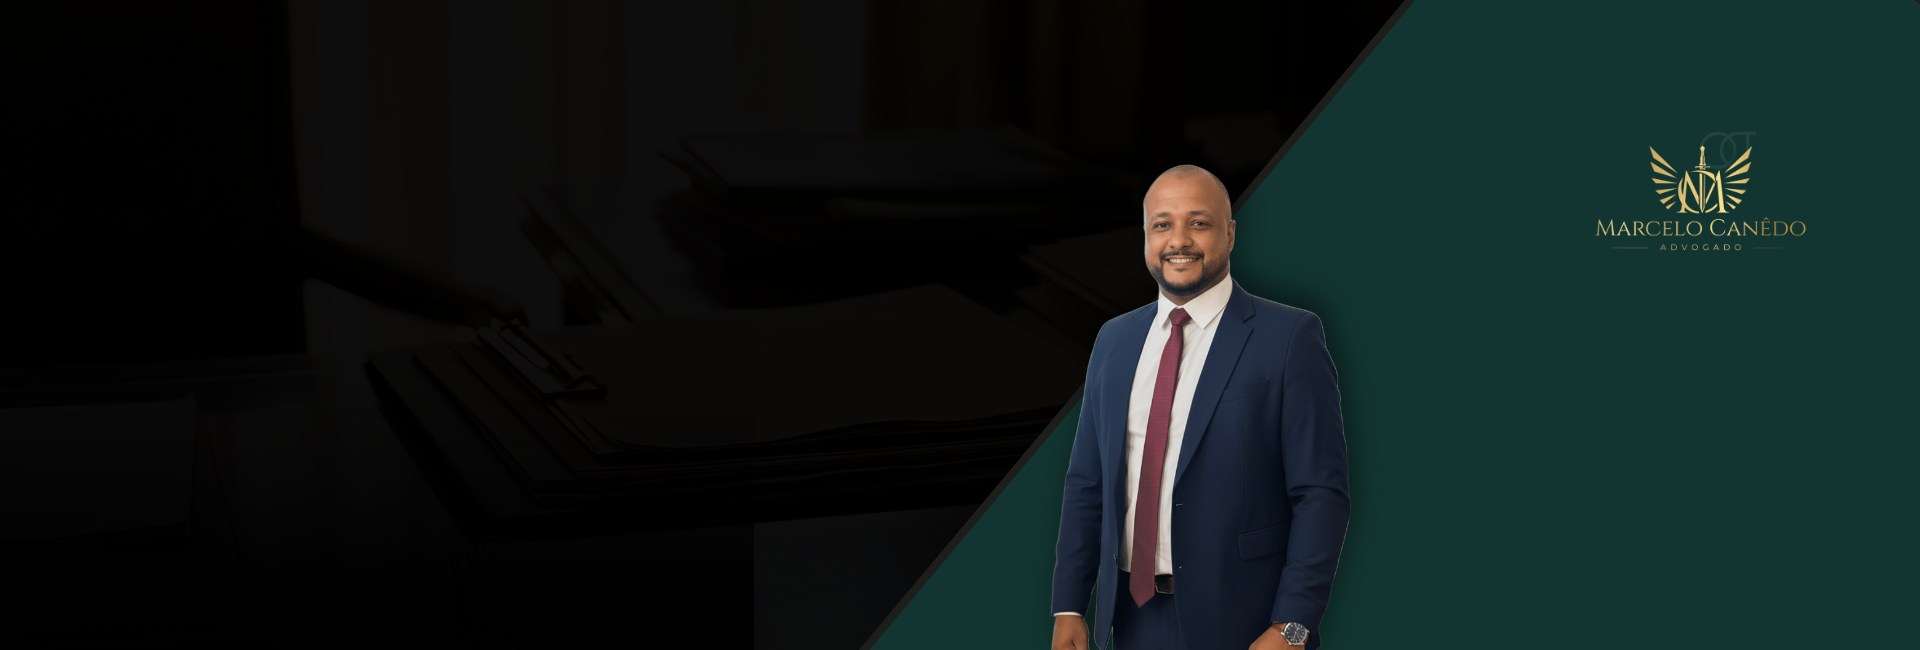
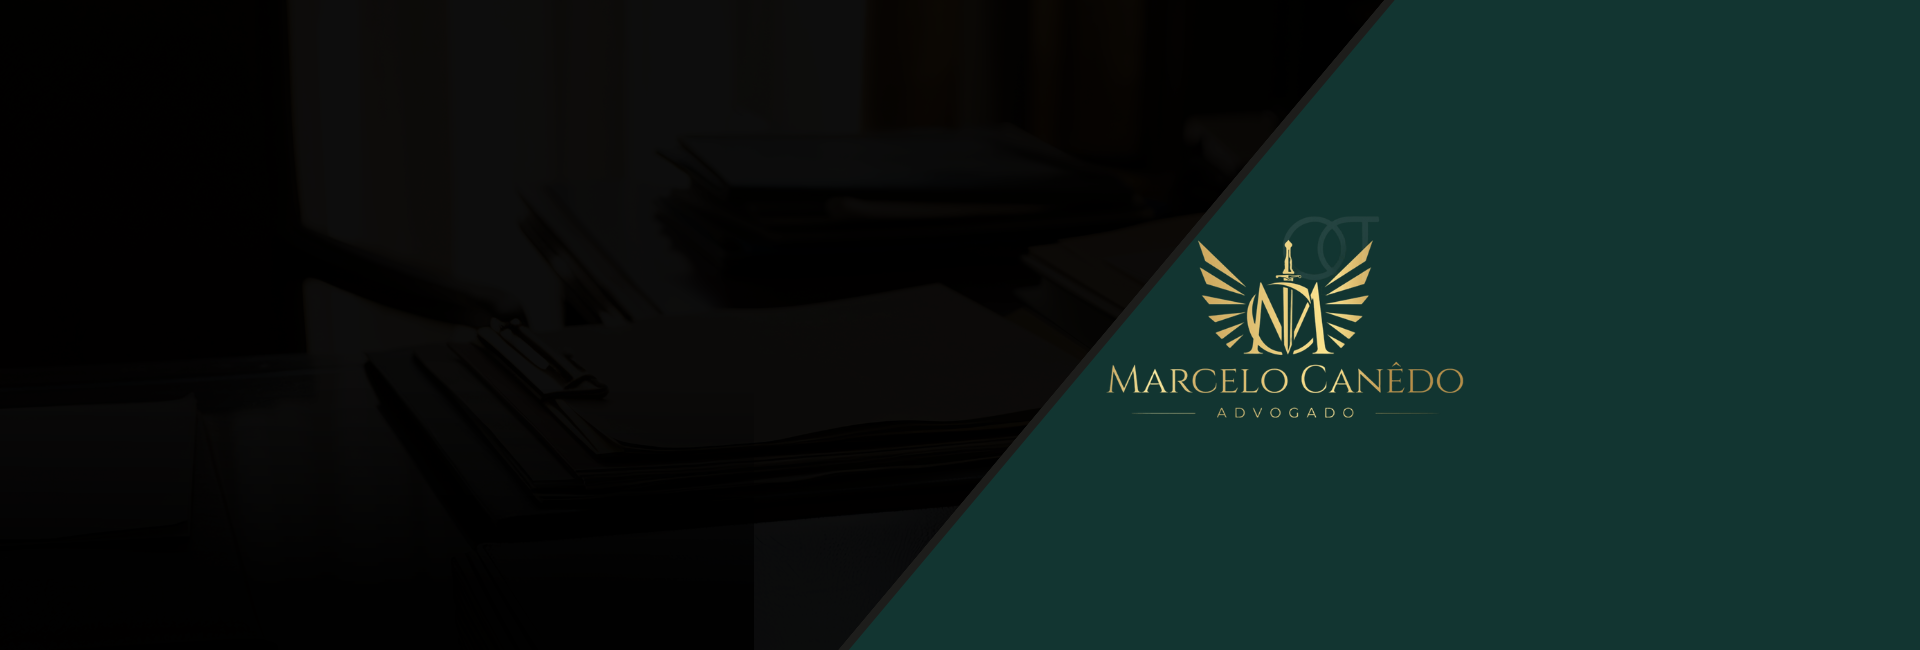
feat sem foto

diff --git a/assets/scss/_hero.scss b/assets/scss/_hero.scss
@@ -177,7 +177,6 @@
 @media (max-width: 440px) {
   .hero {
     height: 100vh; // altura ainda menor
-    background-image: url("../img/bg-mobile-mobile.png");
     padding-left: 10px;
     padding-right: 10px;
     padding-top: 40px;

diff --git a/assets/css/style.css b/assets/css/style.css
@@ -166,7 +166,6 @@ html {
 @media (max-width: 440px) {
   .hero {
     height: 100vh;
-    background-image: url("../img/bg-mobile-mobile.png");
     padding-left: 10px;
     padding-right: 10px;
     padding-top: 40px;
